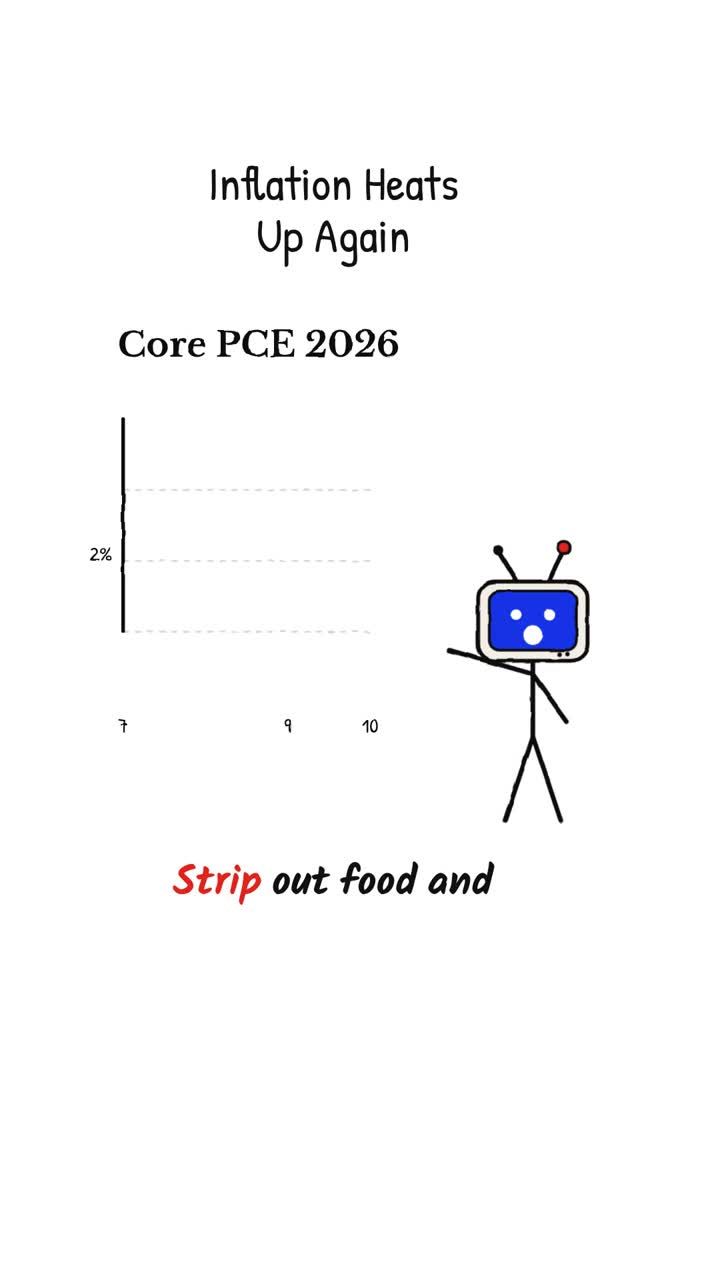
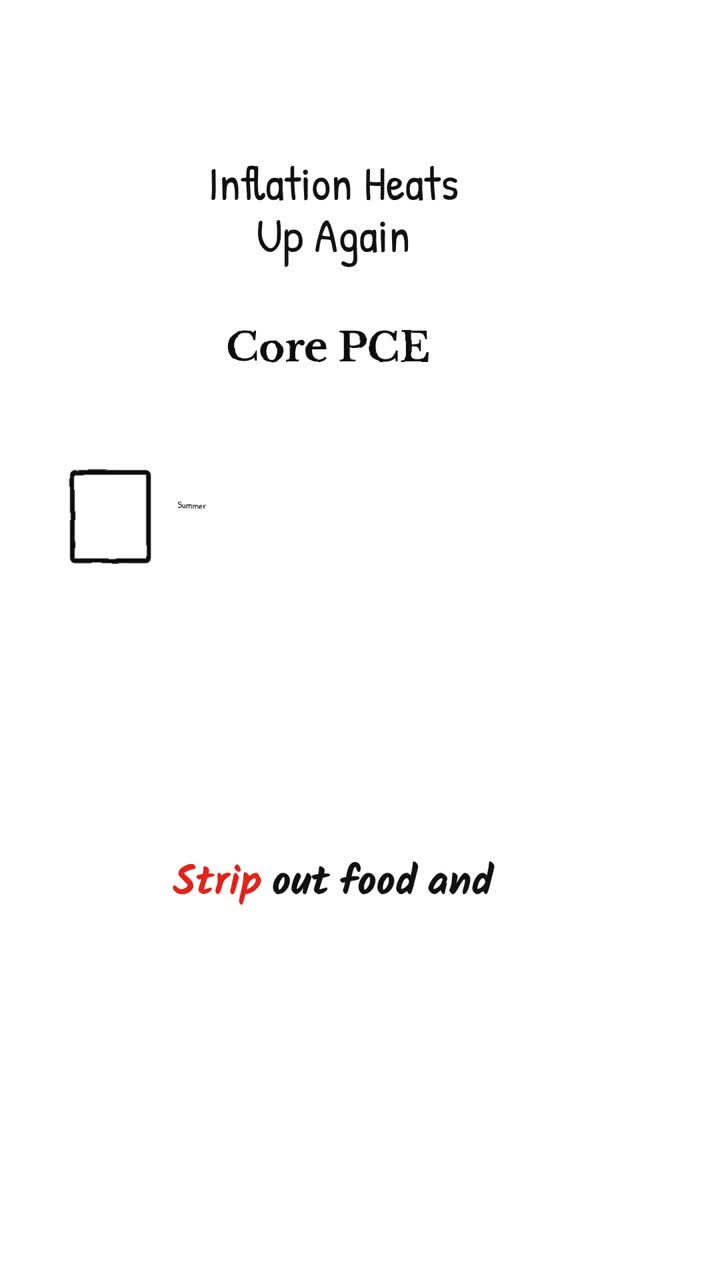
2026-11-25 bigstory: built

diff --git a/engine/concepts/scripts/auto/2026-11-25-bigstory.factcheck.md b/engine/concepts/scripts/auto/2026-11-25-bigstory.factcheck.md
@@ -28,3 +28,4 @@ VERDICT: PASS
 ## Round 2 (editor)
 Reviewed applied fixes (energy wording, Jul-Oct chart, spoken percent); limits pass.
 VERDICT: PASS
+Editor: replaced flat month-number chart with Summer 3% vs October 3.3% compare.
